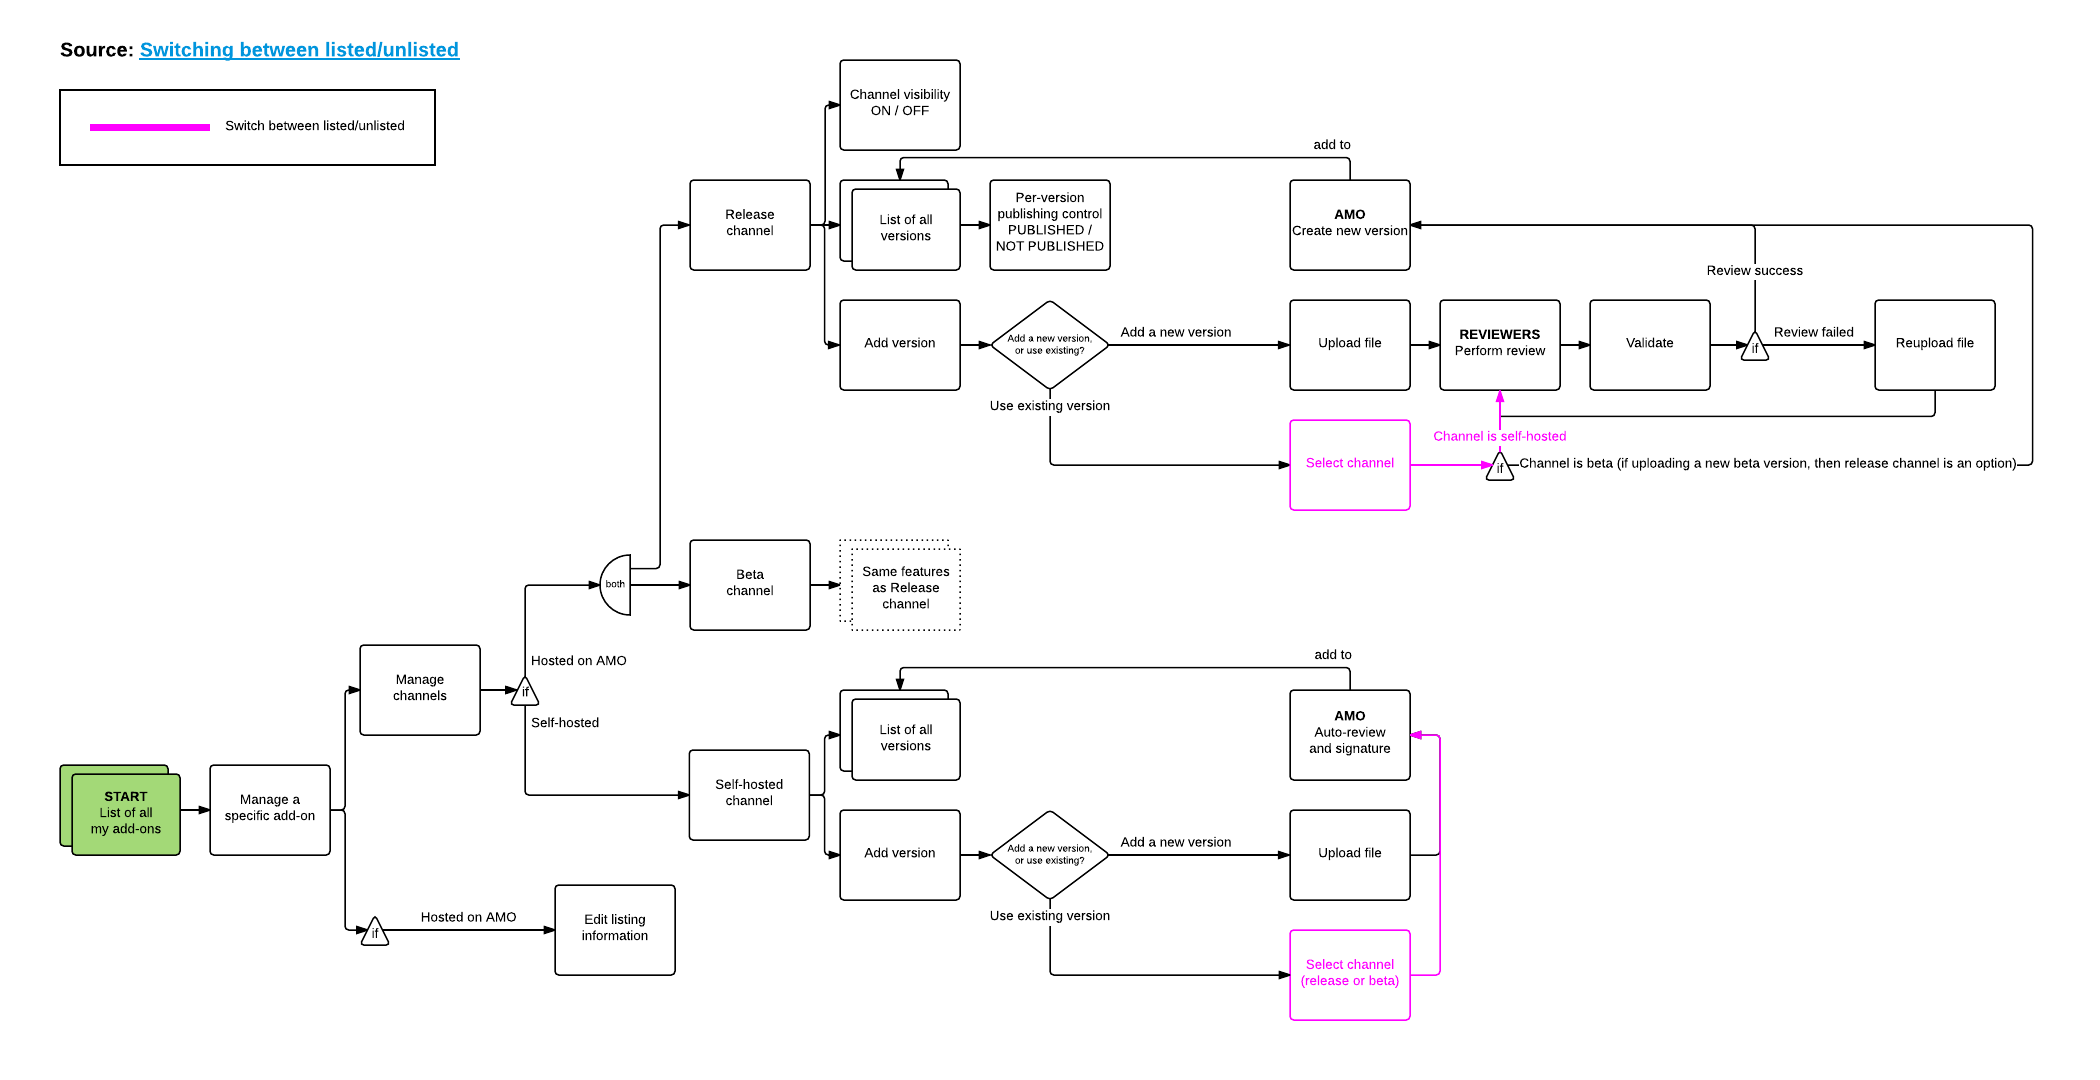
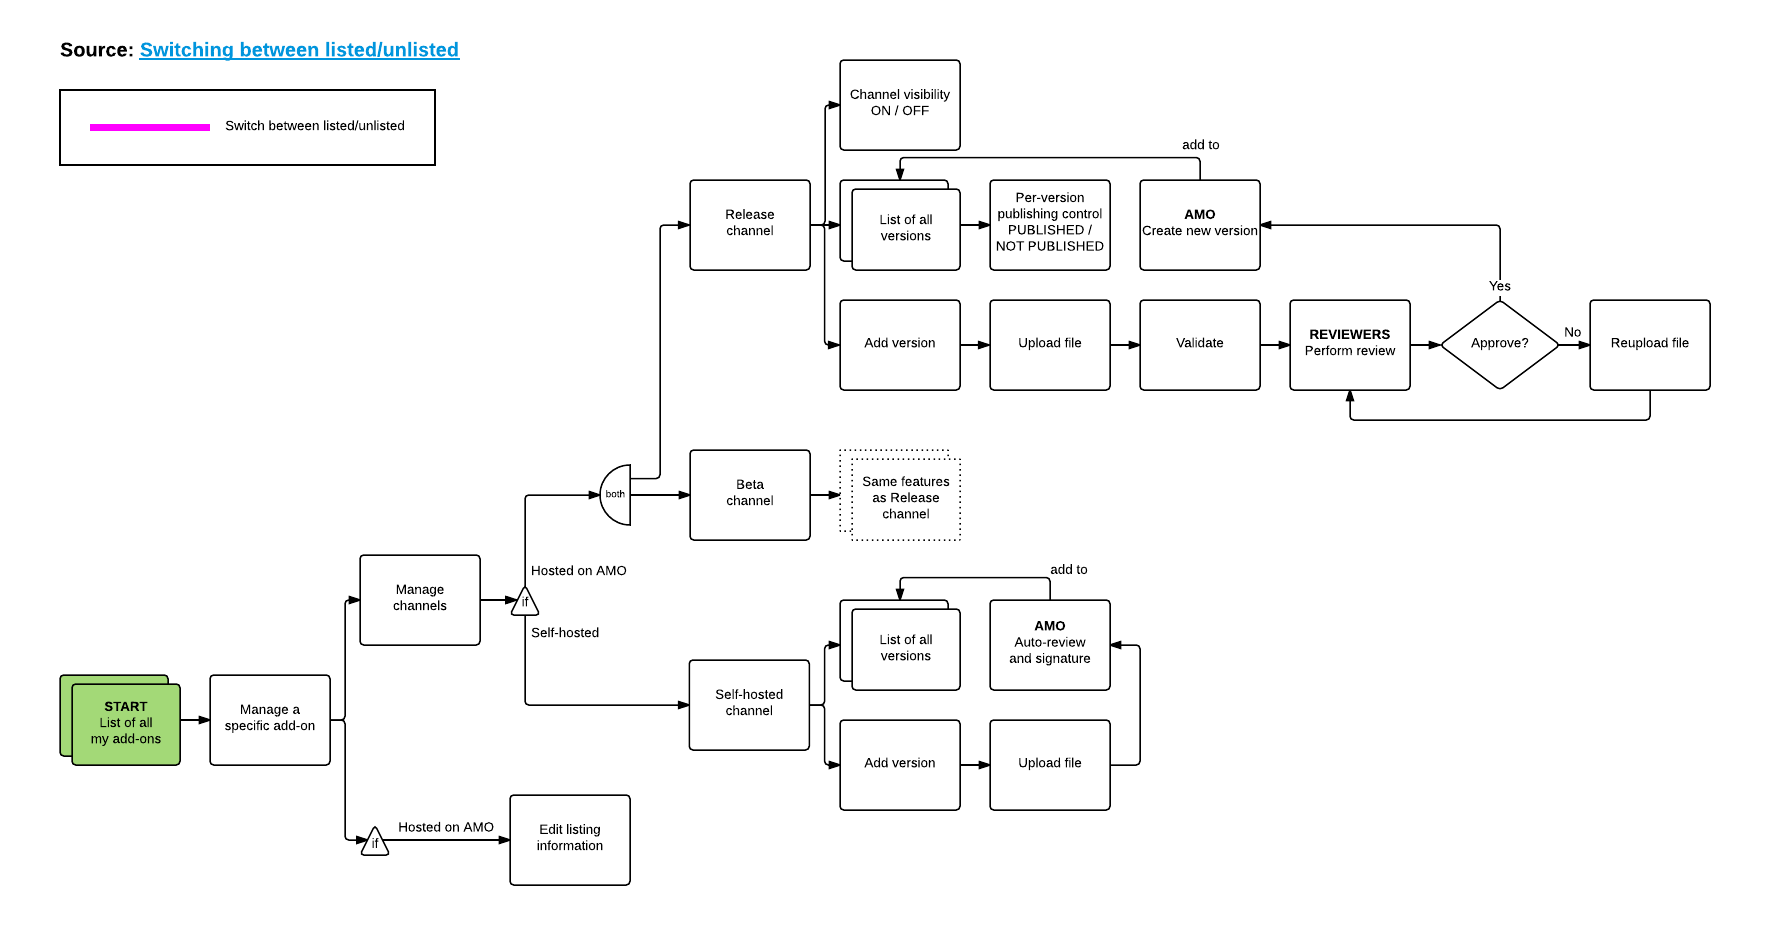
Simplified management flow and wireframes
* “If more than X% sideloaded installed”, we admin-disable the version
instead of unsign it
* Eliminate moving/copying versions between channels
* Merge release, beta and self-hosted channels under 1 tab
* Add user stories for submission and management

diff --git a/docs/ux/ux-management.rst b/docs/ux/ux-management.rst
@@ -1,6 +1,16 @@
 Management UX
 =============
 
+User Stories
+------------
+
+* My add-on has been rejected. I want to see what the reasons for rejection are, write a note to the reviewers explaining my decisions, and upload a fixed version.
+* My add-on has been approved. I want to publish it.
+* My add-on is currently hosted on my own server, but now I want to make it available on AMO.
+* Or vice versa: my add-on is currently on AMO, but now I want to host it on my own server.
+* My add-on has a version that’s not quite ready for release yet. I want to make it available to select audience before releasing it.
+* Or vice versa: the beta version of my add-on is now ready for release. I want to make it available to the general public.
+
 Flow
 ----
 

diff --git a/docs/ux/ux-submission.rst b/docs/ux/ux-submission.rst
@@ -1,6 +1,12 @@
 Submission UX
 =============
 
+User Stories
+------------
+
+* I want to make my add-on available to the general public by hosting it on addons.mozilla.org
+* I want to control the distribution of my add-on by hosting it on my own server
+
 Flow
 ----
 
